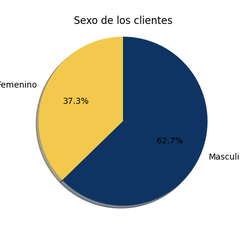
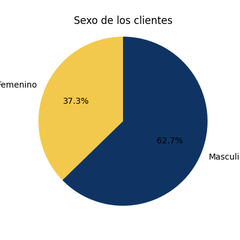
Si

diff --git a/main.py b/main.py
@@ -316,7 +316,7 @@ class DashboardScreen(QMainWindow):
         df.columns = ["Sexo", "Total"]
         plt.figure (figsize=(4,4))
         plt.title("Sexo de los clientes")
-        plt.pie(df["Total"], labels=df["Sexo"], autopct="%1.1f%%", shadow=True, startangle=90, colors=["#F2C94C", "#0f3463"])
+        plt.pie(df["Total"], labels=df["Sexo"], autopct="%1.1f%%", shadow=False, startangle=90, colors=["#F2C94C", "#0f3463"])
         plt.axis("equal")
         #download image
         plt.savefig("graficas/clientes1.png")
@@ -460,9 +460,9 @@ class DashboardScreen(QMainWindow):
         result = cursor.fetchall()
         df = pd.DataFrame(result)
         df.columns = ["TipoCalzado", "Total"]
-        plt.figure (figsize=(5,5))
+        plt.figure (figsize=(4,4))
         plt.title("Tipos de Calzado")
-        plt.pie(df["Total"], labels=df["TipoCalzado"], autopct="%1.1f%%", shadow=True, startangle=90)
+        plt.pie(df["Total"], labels=df["TipoCalzado"], autopct="%1.1f%%", shadow=False, startangle=90)
         plt.axis("equal")
         plt.savefig("graficas/calzado1.png")
         img = Image.open("graficas/calzado1.png")
@@ -512,9 +512,9 @@ class DashboardScreen(QMainWindow):
         result = cursor.fetchall()
         df = pd.DataFrame(result)
         df.columns = ["ServicioContratado", "Total"]
-        plt.figure (figsize=(5,5))
+        plt.figure (figsize=(4,4))
         plt.title("Servicios contratados")
-        plt.pie(df["Total"], labels=df["ServicioContratado"], autopct="%1.1f%%", shadow=True, startangle=90)
+        plt.pie(df["Total"], labels=df["ServicioContratado"], autopct="%1.1f%%", shadow=False, startangle=90)
         plt.axis("equal")
         plt.savefig("graficas/calzado7.png")
         img = Image.open("graficas/calzado7.png")
